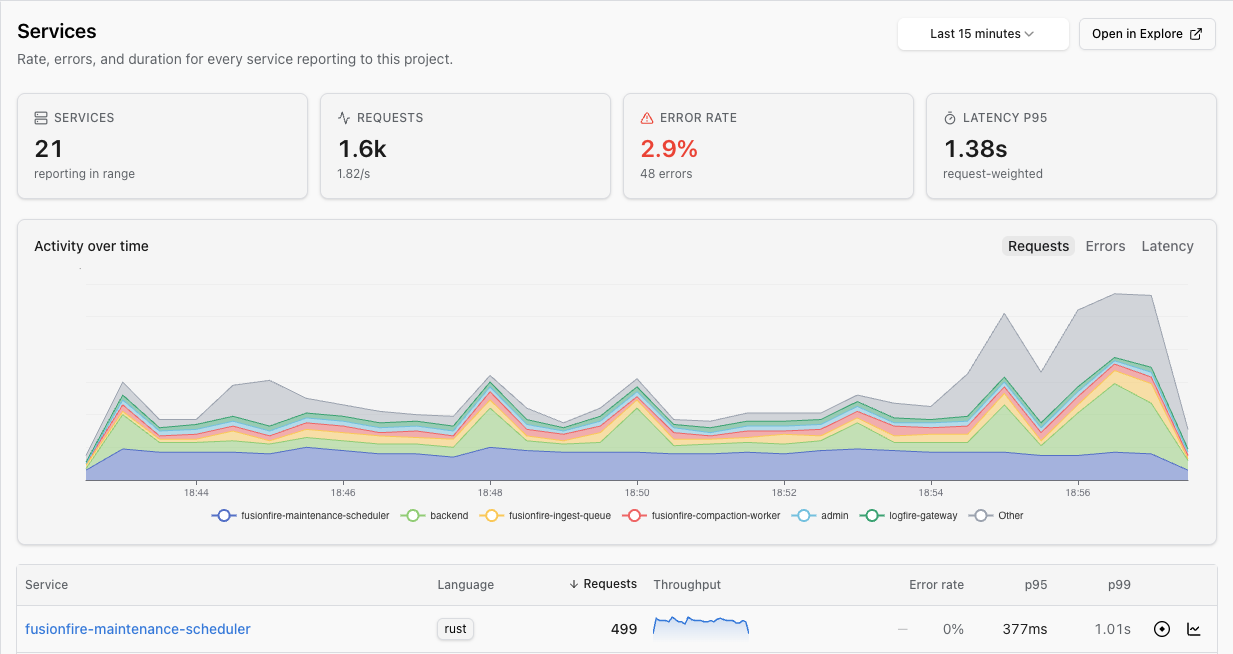
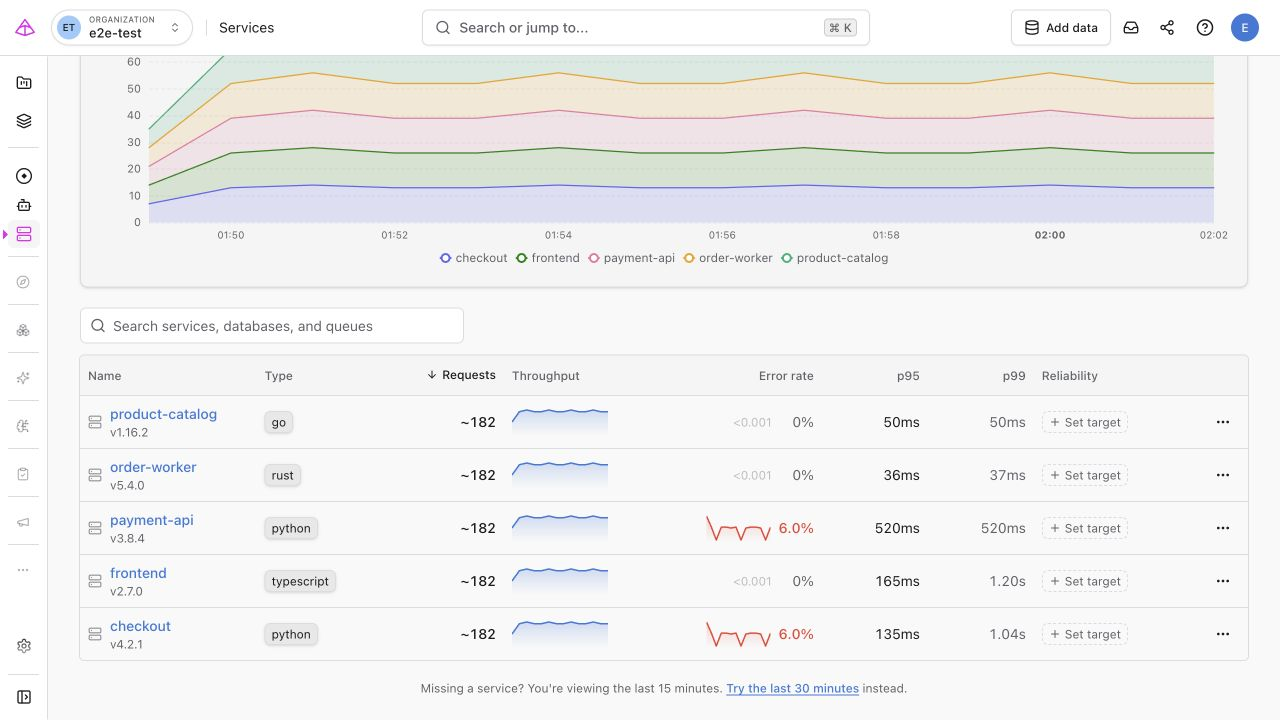
docs: refresh service monitoring guides

diff --git a/docs/guides/web-ui/services.md b/docs/guides/web-ui/services.md
@@ -1,92 +1,93 @@
 ---
-title: "Logfire Services view: RED metrics and topology"
-description: "Browse every service shipping spans to your Logfire project. See requests, errors and latency at a glance, drill into a service's RED breakdown, and explore a topology graph drawn from your traces."
+title: "Monitor services, dependencies, and operations"
+description: "Find busy, slow, or failing services, then investigate their trends, operations, dependencies, versions, and recent errors."
 ---
 # Services
 
-The <OpenInLogfire path="services" variant="inline" label="Services view" /> is the entry point for finding the service you want to investigate. Each service that ships spans to your project appears as one row, sorted by whatever metric matters right now (requests, error rate, latency). Click a row to drill into its detail page, click a recent failed trace, and you land in the [Live View](live.md) with the failing trace open.
+Use the <OpenInLogfire path="services" variant="inline" label="Services view" /> to find which services are busy, slow, or failing, then follow the signal to the operation or trace responsible.
 
-You'll find Services in the project sidebar, between [SQL Workbench](explore.md) and [Hosts](hosts.md).
+A span is one unit of work: a single operation, with a name, a start, and a duration. A trace is the full journey of one request, made of nested spans. Logfire builds the Services view from the spans your project receives.
 
-![Services inventory page](../../images/services/inventory.png)
+You'll find **Services** near the top of the project sidebar, alongside **Live** and **Agents**.
 
-## The Services inventory
+## Find the service that needs attention
 
-The inventory shows summary cards (services in range, total requests, error rate, p95 latency), an **Activity over time** chart with a Requests / Errors / Latency toggle, and one row per service with:
+The inventory defaults to the last 15 minutes. Summary cards and the **Activity over time** chart show request volume, errors, and latency across your services. The table adds:
 
-- **Language** (detected from `telemetry.sdk.language`)
-- **Requests** in the current window
-- **Throughput** sparkline
-- **Error rate**
-- **p95 / p99 latency**
+- Search by resource name, type, or badge.
+- Sort by name, type, request count, error rate, or p95 latency. **p95** and **p99** mean the 95th- and 99th-percentile latency.
+- Quick links to service details, [Live View](live.md), and [Explore](explore.md).
+- A **Reliability** column when reliability targets are available.
 
-Sort by any column. The time picker is shared with the rest of the observability surfaces.
+When the **Databases** or **Queues** toggle is available, you can include resources inferred from database and messaging spans. On narrow screens, rows become cards with the same key signals and separate sort controls.
 
-## Service detail page
+Each resource type is limited to its 200 busiest entries in the selected range. Logfire displays a warning when results reach that limit.
 
-Click a row to open the service detail page.
+![Services inventory with summary signals and service rows](../../images/services/inventory.png)
 
-![Service detail page with RED cards and trend charts](../../images/services/service-detail.png)
+## Investigate one service
 
-You'll see:
+Select a service to open its detail page. It shows:
 
-- **Headline cards** for the service's requests, error rate, latency p50, latency p95, and operation count.
-- **Side-by-side trend charts** for requests and errors and for latency percentiles (p50, p95, p99), with **deployment markers** so you can see whether a spike lines up with a release.
-- A **Service topology** panel showing cross-service calls in the current window, with the service you opened highlighted.
-- **Top operations**: the highest-traffic and slowest spans inside the service.
-- **Recent errors**: a short list of failed traces, each linking straight to the [Live View](live.md) so you can investigate.
+- Headline request, error-rate, median latency (p50), p95 latency, and operation-count cards.
+- Request, error, and latency trends, with deployment markers when version data is available.
+- Reliability targets, top operations, database dependencies, versions, and recent errors.
+- Links that preserve the service filter in **Live view** and **Explore**.
 
-Two buttons in the header ([Live view](live.md) and [SQL Workbench](explore.md)) hand the whole service off to the live view or SQL Workbench in one click. The detail page defaults to the last 30 minutes.
+![Service detail page with request, error, and latency signals](../../images/services/service-detail.png)
 
-The topology graph and the operations / errors tables below the trends:
+## Read the topology correctly
 
-![Service detail topology graph and operations table](../../images/services/topology.png)
+The topology is a one-hop view centered on the selected service. Every edge represents spans that crossed a direct service boundary in the current time range.
 
-## Topology graph
+Traffic on a neighboring node or edge includes only calls exchanged with the selected service, not that neighbor's total traffic. The selected service shows its inbound error rate; neighboring nodes do not claim to summarize the health of the whole service.
 
-The topology graph is drawn from spans that cross service boundaries. Each node is a service; each edge represents real calls between them in the current window. Nodes are colored by error rate so a bleeding dependency is visible at a glance.
+Select a neighboring service to open its detail page.
 
-Click any node to jump to that service's detail page. Click any recent failed trace from the panel below to land on the trace itself in the [Live View](live.md).
+![One-hop service topology centered on checkout](../../images/services/topology.png)
 
-## How services are detected
+## Send the attributes the page needs
 
-Logfire identifies a service from the [OpenTelemetry `service.name` resource attribute](https://opentelemetry.io/docs/specs/semconv/resource/#service) on the spans you send. If you instrument your application with the [Python SDK](../onboarding-checklist/integrate.md), the [TypeScript SDK](https://pydantic.dev/docs/logfire/instrument/typescript/), or any OpenTelemetry-compatible instrumentation, `service.name` is set for you. The Services view picks up new services within a minute or two of their first span.
-
-The RED counts are computed from **service entry spans**: the trace roots (`parent_span_id IS NULL`) plus any span whose parent's `service.name` differs from the span's own. ([`service_name`](../../reference/sql.md#service_name) is the column name on Logfire's `records` table; the underlying OTel resource attribute is `service.name`.) That gives downstream services in a call chain real counts even when they're nested inside a longer trace, while still letting the topology graph draw edges between them.
-
-### Resource attributes the inventory uses
+OpenTelemetry (OTel) is the open industry standard for collecting traces, metrics, and logs. Logfire uses these OTel resource and span attributes:
 
 | Attribute | What it does |
 |-----------|--------------|
-| `service.name` | **Required.** The row in the inventory. Use the workload name (e.g. `cart`, `payment-api`), not a hostname or pod name. |
-| `service.version` | Drives the version pills on the detail page and the deployment markers on the trend charts. |
-| `service.instance.id` | Stable per replica. When the OpenTelemetry Operator's auto-instrumentation is enabled, it defaults this to `<namespace>.<pod>.<container>`. |
-| `deployment.environment.name` | Lets you filter the inventory by env (the `all envs` picker in the breadcrumb). The older `deployment.environment` is honoured too. |
-| `telemetry.sdk.language` | Drives the **Language** column. Auto-set by every OTel SDK. |
+| `service.name` | Groups spans into a named service row. Use a stable workload name such as `cart`, not a hostname or pod name. Without it, telemetry may appear under an unknown-service fallback. |
+| `service.version` | Adds versions and deployment markers to service details. |
+| `deployment.environment.name` | Lets you filter by environment. The older `deployment.environment` is also honored. |
+| `telemetry.sdk.language` | Sets the service's type badge. OTel SDKs normally add it. |
+| `db.system.name` | Identifies a database. The older `db.system` is also honored. |
+| `messaging.system` | Identifies a queue or messaging system. |
 
-### Topology edges
+Propagate trace context between workloads so Logfire can reconstruct service boundaries. The topology omits an edge when the relevant spans or parent context do not reach Logfire.
 
-The graph draws an edge wherever a span's `service.name` differs from its parent's `service.name`. The renderer reads only `service.name` today, so edges to external dependencies (third-party APIs, managed databases) are labelled with the calling service's name rather than the dependency itself. Give every span-emitting component a distinct, meaningful `service.name` and the graph will be readable.
+**Requests** is an approximate count of distinct traces that included the service. A trace that re-enters the service counts once. **Errors** estimates how many of those traces contained an error for that service. These probabilistic counts typically have 1 to 2% standard error.
 
-## Get your first row to appear
+Sampling means keeping a representative subset of telemetry instead of every event. Sampling before export affects inventory counts and can remove topology edges because this page describes the telemetry Logfire received.
 
-If your project is empty, the fastest path to a Services row is one span from the Python SDK:
+## Send a first service span
+
+Copy a write token from **Project settings → Write tokens**, then run:
 
 ```bash
 pip install logfire
-export LOGFIRE_TOKEN=<your write token from project Settings → Write tokens>
+export LOGFIRE_TOKEN="your-write-token"
 export OTEL_SERVICE_NAME=cart
-python -c "import logfire; logfire.configure(); logfire.info('hi')"
+python - <<'PY'
+import logfire
+
+logfire.configure(inspect_arguments=False)
+with logfire.span("first cart request"):
+    pass
+PY
 ```
 
-Refresh the Services page. `cart` should appear within a minute or two. For broader instrumentation paths (FastAPI, Django, gRPC, OTel Collector), see the [Python setup](../onboarding-checklist/integrate.md).
+Refresh Services and expand the time range if needed. For FastAPI, Django, gRPC, OpenTelemetry Collector, and other integrations, see [Integrate your application](../onboarding-checklist/integrate.md).
 
-## Troubleshooting
+## Fix missing or split services
 
-| Symptom | Likely cause |
-|---------|--------------|
-| Service doesn't appear in the inventory | No `service.name` resource attribute on the spans, or the project hasn't received any span yet. Both the Python and TypeScript SDKs set `service.name` for you; if you send raw OTLP, set it explicitly. |
-| The row shows under `(unknown)` | Same as above: `service.name` is the row key. |
-| One service appears as two rows | `service.name` differs across replicas (e.g. one carries a hostname suffix). Pin it via `OTEL_SERVICE_NAME` or the SDK's `service_name` argument so every replica reports the same string. |
-| An edge between two services is missing from the topology | Either no span actually crossed that service boundary in the window, or tail sampling dropped the spans that did. The graph reads from real cross-boundary spans, not from a configured topology. |
-| Counts are way lower than expected | Head or tail sampling is dropping spans before they reach Logfire. RED metrics on this page count what arrived, not what was emitted. |
+| Symptom | What to check |
+|---------|---------------|
+| A service is missing | Confirm a span arrived in the selected time and environment range. If it appears as `unknown_service`, set a stable `service.name`. Also check whether the result reached the 200-service limit. |
+| One service appears as two rows | Keep `service.name` identical across replicas with `OTEL_SERVICE_NAME` or the SDK's `service_name` argument. |
+| A topology edge is missing | Confirm both workloads use distinct service names, propagate trace context, and export the spans that cross the boundary. |

diff --git a/docs/guides/web-ui/service-levels.md b/docs/guides/web-ui/service-levels.md
@@ -1,62 +1,73 @@
 ---
-title: "Service Levels: SLOs, reliability targets, and burn-rate alerts"
-description: "Set a reliability target — a Service Level Objective (SLO) — for a service, for example 99.9% of requests succeed over 30 days, and let Logfire track the error budget and page you before you miss it."
+title: "Set reliability targets for services and large language model providers"
+description: "Define measurable reliability goals, track error budgets and burn rates, and investigate the events that put a target at risk."
 ---
 # Service Levels
 
-A **reliability target** — Logfire's name for a **Service Level Objective (SLO)**, the industry-standard way to set a measurable reliability goal — is a promise about a service, written as a percentage over a time window: *"99.9% of requests succeed over the last 30 days."* In Logfire you set one on a service, and Logfire watches the service and **pages you when it's heading toward missing the promise, well before users notice.** (An SLO is your *internal* target; a Service Level Agreement, or SLA, is the external contract with financial consequences — Logfire tracks SLOs.)
+Set a measurable reliability goal for a service or large language model (LLM) provider, then watch its error budget and burn rate before the target is missed.
 
-The <OpenInLogfire path="service-levels" variant="inline" label="Service Levels" /> page lists every reliability target across the project. Each target lives on its service, under the service's **Reliability** tab.
+A service level objective (SLO) is a target for how reliable a service should be, such as "99.9% of checkout requests succeed over the last 30 days." Logfire calls each SLO a **reliability target**. An SLO is an internal engineering target; a service level agreement (SLA) is an external contract.
+
+You'll find <OpenInLogfire path="service-levels" variant="inline" label="Service levels" /> under **Notify** in the project sidebar. The page lists every target in the project. Search by target name, service, provider, or description; filter by status; or group by service, status, time window, source, or not at all. Service detail pages show the same targets on their **Reliability** page.
 
 !!! note "Plans and limits"
-    Reliability targets are an **Enterprise** feature, with a limited number available on the **Growth** plan (and no limit when self-hosted). Your plan sets how many targets your organization can create.
+    Reliability targets are available on **Growth**, **Enterprise**, and self-hosted Logfire. Growth organizations can create up to five targets across the organization and use windows up to 30 days. Enterprise and self-hosted organizations have no target-count limit and can use windows up to 90 days. Project retention still limits the available history.
 
-## What a reliability target is made of
+## Choose what good looks like
 
-When you create a target you answer three questions:
+A target combines:
 
-- **What counts as a "good" request, and out of which requests?** Logfire measures a fraction — good events divided by total events. This ratio is the service's **Service Level Indicator (SLI)**, the signal the SLO is measured against. You define both parts with a boolean SQL condition: *"What counts as a failure?"* and *"Out of which set of events?"*
-- **What's the target?** A percentage — presets run from **99.0%** to **99.99%** (default **99.9%**).
-- **Over what window?** A **rolling window** — the trailing period the percentage is measured over. Presets are **1, 7, 28, 30, and 90 days** (default 30). Your plan caps the maximum window.
+1. The total events or values to measure.
+2. The subset that counts as bad.
+3. The percentage that should be good over a rolling time window.
 
-Two derived ideas do the heavy lifting:
+The resulting good-event ratio is the service level indicator (SLI). Percentage presets range from **99%** to **99.99%**, with **99.9%** as the default. Window presets are **1, 7, 28, 30, and 90 days**.
 
-- **Error budget** — the small fraction of failures the target *allows*. A 99.9% target over 30 days budgets 0.1% of events to fail; the target's detail page shows **"Error budget remaining."**
-- **Burn rate** — how fast you're spending that budget right now. Burning at 1× exactly uses the budget over the window; 14.4× would exhaust a 30-day budget in about two days.
+Two derived values show whether the goal is at risk:
 
-## Create a reliability target
+- **Error budget** is the amount of unreliability the target allows. A 99.9% target allows 0.1% of included events to be bad.
+- **Burn rate** is how quickly the service is spending that budget. At 1x, one complete budget would be consumed over the target's rolling window.
 
-1. Open a service, go to its **Reliability** tab, and click **New target**.
-2. Pick a template — the card you choose sets what "good" means:
-    - **Availability** — good = requests that didn't error.
-    - **Latency** — good = requests under a **Max duration (seconds)** you set.
-    - **AI quality** — a *quality* SLI (the SLI dimension that sits alongside availability and latency): good = requests whose evaluation score clears a **Minimum eval score** (reads `gen_ai.evaluation.score.value`, populated by [pydantic-evals](../../evaluate/overview.md)).
-3. Fill in the wizard: name it, confirm the good/total conditions, and choose **where the data comes from** — **Events** (one row per request, remote procedure call (RPC), or job — most targets use this) or **Metrics** (sum a counter or gauge you already record). Both are **count-based** SLIs (good ÷ total), the request-based style the SRE literature recommends; Logfire doesn't use time-based/uptime SLIs. Optionally scope to specific deployment **environments**.
-4. Set the **Target (%)** and **Rolling window**. A **live preview** backtests the target against your recent data so you can see the success rate and burn before you commit.
-5. Optionally choose notification channels for the alerts Logfire is about to generate, then click **Create target**.
+## Start from a template
 
-## Burn-rate alerts, created for you
+From a service detail page, select **Reliability**, then **New target** and choose:
 
-Every target automatically generates **up to three burn-rate alerts**, so you don't hand-write alert SQL:
+- **Availability** for records that did not error.
+- **Latency** for records below a duration threshold.
+- **AI / LLM calls** for calls without a provider-side failure.
+- **AI quality (eval score)** for records that reach an evaluation threshold. An evaluation (eval) is a repeatable test of model or agent behavior. This template uses `gen_ai.evaluation.score.value`, which [Pydantic Evals](../../evaluate/overview.md) can populate.
+- **Custom SQL**, using Structured Query Language conditions, when the preset conditions do not fit.
 
-| Tier | Reacts to | Fires at | Severity |
-|------|-----------|----------|----------|
-| **Fast burn** | a sudden outage (1h / 5m windows) | 14.4× budget burn | pages you |
-| **Medium burn** | a steady problem (6h / 30m) | 6× burn | pages you |
-| **Slow burn** | a slow leak (3d / 6h) | 1× burn | opens a ticket |
+## Choose records or metrics
 
-These three tiers follow the [Google SRE Workbook's **multiwindow, multi-burn-rate** method](https://sre.google/workbook/alerting-on-slos/): each checks **two windows at once** so a brief blip doesn't page you but a real regression does. Route each alert to a channel from the target's detail page — see [Alerts](alerts.md) for channels and notifications. Tiers that can't structurally fire for a low target are skipped.
+**Records** measure rows such as requests, remote procedure calls (RPCs), background jobs, and LLM calls. Define the total population and bad subset with SQL boolean conditions. The setup wizard previews matching records before you save.
 
-## Track a target
+**Metrics** measure a count or other additive value, a gauge fraction, a cumulative counter, or values below a histogram latency threshold. Their burn-rate history appears after you save the target.
 
-The target's detail page shows three cards — **Current service level**, **Target**, and **Error budget remaining** — a **burn-rate chart** for the last 7 days, the state of its three burn-rate alerts, and a **How it's measured** panel with the exact good/total queries. When a target is breached, **Investigate failing events** jumps to the matching events in the [Live view](live.md).
+You can restrict either source to selected deployment environments. Set the target percentage and window, then choose notification channels for its generated alerts.
 
-## Reliability targets for LLM providers
+## Let Logfire watch the burn rate
 
-If a service calls an LLM, you can install ready-made **availability targets** for the providers it uses in one step — **LLM providers** on the Reliability tab (or the reliability chips on the [LLMs and Providers](llms.md) page). Logfire ships presets for **OpenAI**, **Anthropic**, **Google (Gemini / Vertex)**, and a catch-all **Any LLM provider**, each defaulting to **99% over 28 days**, counting only server-side failures (5xx, rate limits, timeouts) as bad.
+Each target generates up to three alerts:
 
-## Next steps
+| Tier | Windows | Threshold | Severity |
+|------|---------|-----------|----------|
+| **Fast burn** | 1 hour and 5 minutes | 14.4x | page |
+| **Medium burn** | 6 hours and 30 minutes | 6x | page |
+| **Slow burn** | 3 days and 6 hours | 1x | ticket |
 
-- [Alerts](alerts.md) — route the generated burn-rate alerts and add your own.
-- [Detect Service is Down](../../how-to-guides/detect-service-is-down.md) — a lighter-weight uptime check.
-- [Services](services.md) — where reliability targets are created and reviewed.
+These tiers follow the multiwindow, multi-burn-rate method in the [Google Site Reliability Engineering (SRE) Workbook](https://sre.google/workbook/alerting-on-slos/). Checking two windows keeps a brief spike from firing an alert meant for a sustained regression. Logfire omits a tier when the target is too low for that tier to fire meaningfully.
+
+Route alerts from the target detail page. See [Alerts](alerts.md) for notification-channel setup.
+
+## Track the budget and investigate failures
+
+The target detail page shows **Current service level**, **Target**, and **Error budget remaining**. **Reliability history** defaults to hourly error-budget history for the last 24 hours; switch to **Burn rate** and choose a time span to inspect budget consumption.
+
+The **How it's measured** panel records the scope and exact conditions. Select **Investigate failing events** to open the matching records in [Explore](explore.md).
+
+## Monitor an LLM provider
+
+On the **Providers** tab of [LLMs and Providers](llms.md), select **Set reliability targets** for an observed provider. Choose an availability or latency target for that provider across every service that calls it. To limit an LLM target to one service, create it from that service's **Reliability** page instead.
+
+Provider targets default to **99% over 28 days**. Availability targets treat server failures, rate limits, timeouts, and connection errors as bad. Recognized OpenAI and Anthropic client errors, such as invalid requests or credentials, are excluded because they do not measure provider availability.
